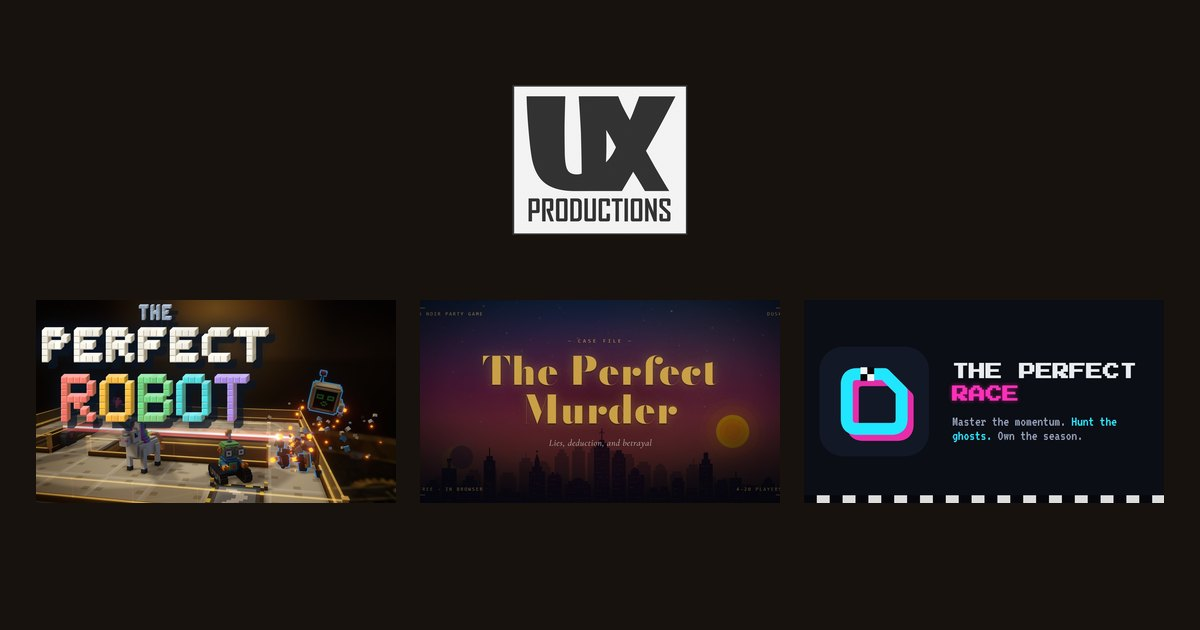
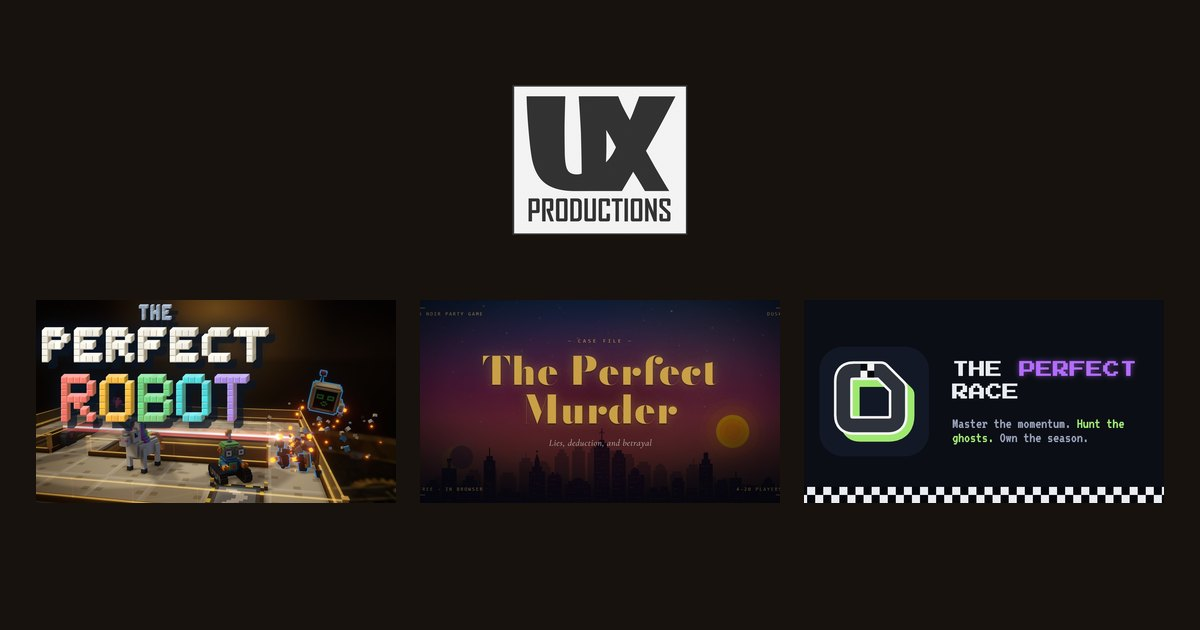
Game titles: each game's name as the game itself sets it
The Perfect Race is one line of Press Start 2P with only PERFECT in its
neon purple, The Perfect Murder is Bodoni Moda in gold after the game's
magnifying glass, and The Perfect Robot keeps its logo. GameTitle sets
them on the game pages, the game cards, the press kits and news posts.
The Race card is now the game's own current share image.

Changed region(s): [[0.6783, 0.5429, 0.9558, 0.7238], [0.6783, 0.754, 0.9867, 0.8143]]

diff --git a/src/styles/global.css b/src/styles/global.css
@@ -87,6 +87,16 @@ p { margin: 0 0 1em; }
 .skip:focus { left: 8px; }
 .visually-hidden { position: absolute; width: 1px; height: 1px; overflow: hidden; clip: rect(0 0 0 0); white-space: nowrap; }
 
+/* Each game's own name, as the game sets it (GameTitle.astro). Sizes come from the
+   font-size where it is used; the shadows are the games' own, in em so they keep their
+   proportions at any size (at 13 px they are exactly The Perfect Race's 1px/2px/7px). */
+.gt { white-space: nowrap; text-transform: none; letter-spacing: 0; }
+.gt-murder { display: inline-flex; align-items: center; gap: .5em; font: 700 1em/1.15 var(--murder-face); letter-spacing: .01em; color: #c9a045; }
+.gt-glass { width: 1.05em; height: 1.05em; flex: none; opacity: .85; }
+.gt-race { font: 400 1em/1.3 var(--race-face); text-transform: uppercase; letter-spacing: .04em; color: #dfe5f2; text-shadow: 0 .077em .154em rgba(0, 0, 0, .35); }
+.gt-race b { font-weight: inherit; color: #b46bff; text-shadow: 0 0 .54em rgba(180, 107, 255, .28); }
+.gt-robot { display: block; height: auto; }
+
 /* Buttons */
 .btn {
   display: inline-flex; align-items: center; gap: 9px;
@@ -135,7 +145,11 @@ p { margin: 0 0 1em; }
 .game-card img { width: 100%; aspect-ratio: 16 / 9; object-fit: cover; }
 .game-card .strip { height: 4px; background: var(--strip); }
 .game-card .body { padding: 18px 20px 22px; display: flex; flex-direction: column; gap: 8px; flex: 1; }
-.game-card h3 { font-size: 1.4rem; }
+.game-card h3 { display: flex; align-items: center; min-height: 3.1rem; font-size: 1.4rem; }
+.game-card h3 .gt-murder { font-size: min(1.55rem, (100cqi - 0px) / 11.6); }
+.game-card h3 .gt-race { font-size: min(1.05rem, 100cqi / 16.8); }
+.game-card h3 .gt-robot { width: 132px; margin: -8px 0 -8px -6px; }
+.game-card .body { container-type: inline-size; }
 .game-card .genre { font: 500 12px var(--mono); letter-spacing: .1em; text-transform: uppercase; color: var(--strip); }
 .game-card p { color: var(--text-dim); margin: 0; font-size: 15.5px; }
 .chips { display: flex; flex-wrap: wrap; gap: 6px; margin-top: auto; padding-top: 8px; }
@@ -258,8 +272,9 @@ p { margin: 0 0 1em; }
   background: linear-gradient(0deg, var(--g-bg) 3%, color-mix(in srgb, var(--g-bg) 55%, transparent) 40%, transparent 75%); }
 .game-hero .copy { position: absolute; z-index: 1; left: 0; right: 0; bottom: clamp(18px, 4vw, 44px); }
 .game-hero h1 { font-family: var(--g-title); margin: 8px 0 10px; }
-.theme-race .game-hero h1 { font-size: clamp(1.5rem, 4vw, 2.6rem); line-height: 1.3; letter-spacing: 0; }
-.theme-murder .game-hero h1 { font-weight: 700; letter-spacing: 0; }
+.game-hero .copy .wrap { container-type: inline-size; }
+.theme-race .game-hero h1 { font-size: min(2.6rem, 100cqi / 16.8); line-height: 1.3; letter-spacing: 0; margin-block: 14px 16px; }
+.theme-murder .game-hero h1 { font-size: min(4rem, 100cqi / 11.6); letter-spacing: 0; }
 .game-hero .logo { width: min(440px, 70vw); height: auto; margin: -10px 0 -6px -10px; }
 .game-hero .tagline { font-size: clamp(1.1rem, 2.2vw, 1.4rem); color: var(--g-text); max-width: 32em; margin-bottom: 18px; }
 @media (max-width: 640px) {

diff --git a/README.md b/README.md
@@ -26,8 +26,10 @@ npm run check      # fails on broken internal links or anchors in dist/
 | Page templates (one per page type, rendered in both languages) | `src/views/` |
 | Front page: launch block, the three game panels, news strip, studio band | `src/views/Home.astro` |
 | The UX Productions mark as vector paths (traced from `public/press/ux-productions-logo.png`), used in the header (UX and the word PRODUCTIONS), the studio band and the footer | `src/components/Mark.astro` |
+| Each game's name as the game itself sets it (Robot: its logo; Murder: Bodoni Moda in gold with the magnifying glass; Race: one line of Press Start 2P with PERFECT in purple), used on the front page, game pages, game cards, press kits and news posts | `src/components/GameTitle.astro` |
 | Fonts: every @font-face, the files each page preloads, and the metric-matched fallbacks (see Fonts below) | `src/components/Fonts.astro` |
 | Front page art: the Robot key art at full size, and the Race panel (a crop of its night-circuit press screenshot) | `src/assets/robot/key-art.jpg`, `src/assets/race/panel.jpg` |
+| Game cards (games index, 404) and the share images made from them; the Race card is the game's own share image (`the-perfect-race/src/Client/public/og-image.png`) | `src/assets/<game>/card.jpg`, `src/assets/robot/capsule.jpg` |
 | Styles: studio palette, the shared page width, and each game's palette | `src/styles/global.css` |
 | Press kit downloads (full-size files, thumbnails, zip) | `public/press/<game>/` |
 | Trailers | `public/video/` |
